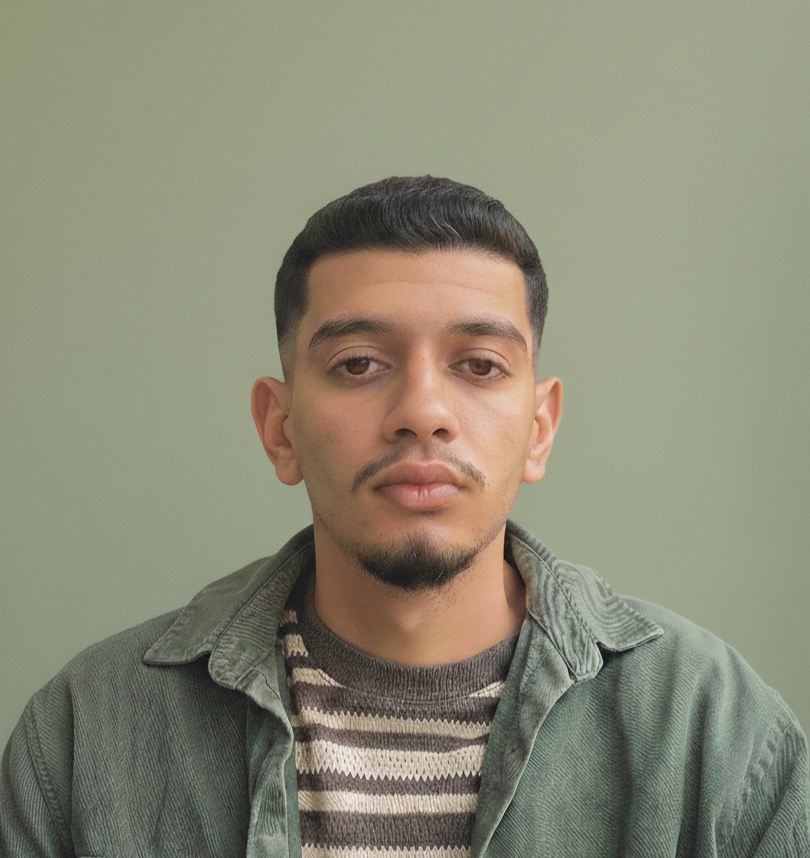
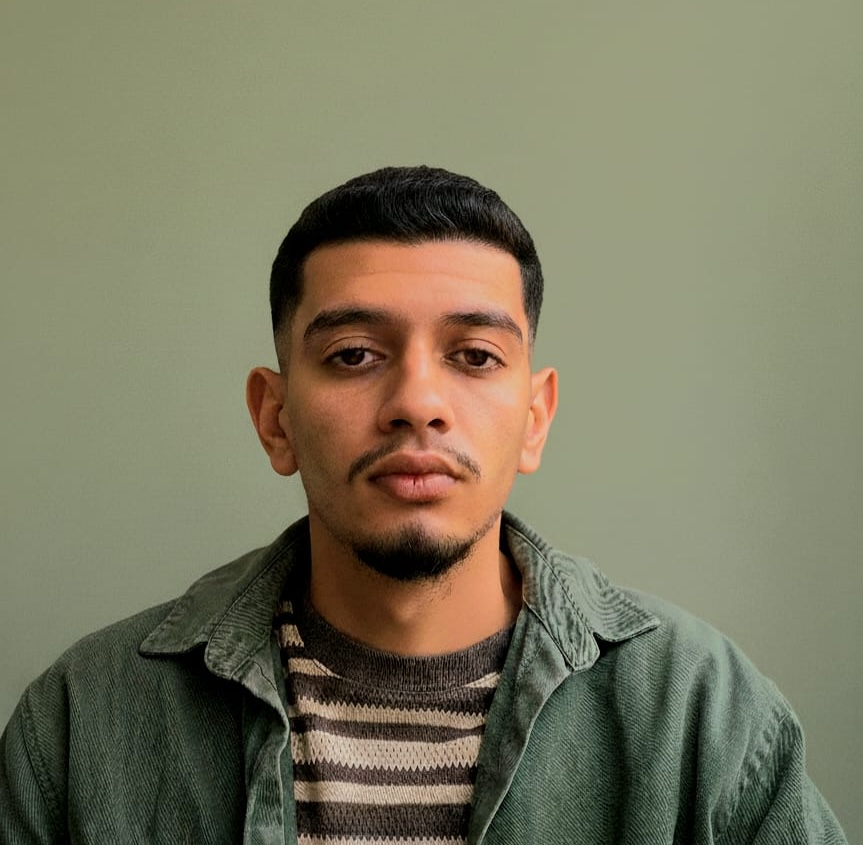
update : el houssaine 's profile picture and last name uncapitalize

diff --git a/src/pages/landing/our_team/data.tsx b/src/pages/landing/our_team/data.tsx
@@ -19,17 +19,17 @@ export const useHeroProps = (t: TFunction): HeroProps => ({
 // The team members data (kept static)
 const teamMembers = [
     {
-        name: "Wacim BEN YAHYA",
+        name: "Wacim Ben Yahya",
         role: "Head of TTO",
         image: wacim,
     },
     {
-        name: "Yahya MDARHRI",
+        name: "Yahya Mdarhri",
         role: "Tech Lead",
         image: yahya,
     },
     {
-        name: "Elhoussaine EDDAHBI",
+        name: "El Houssaine Eddahbi",
         role: "Cloud & DevOps Engineer",
         image: elhoussaine,
     },
